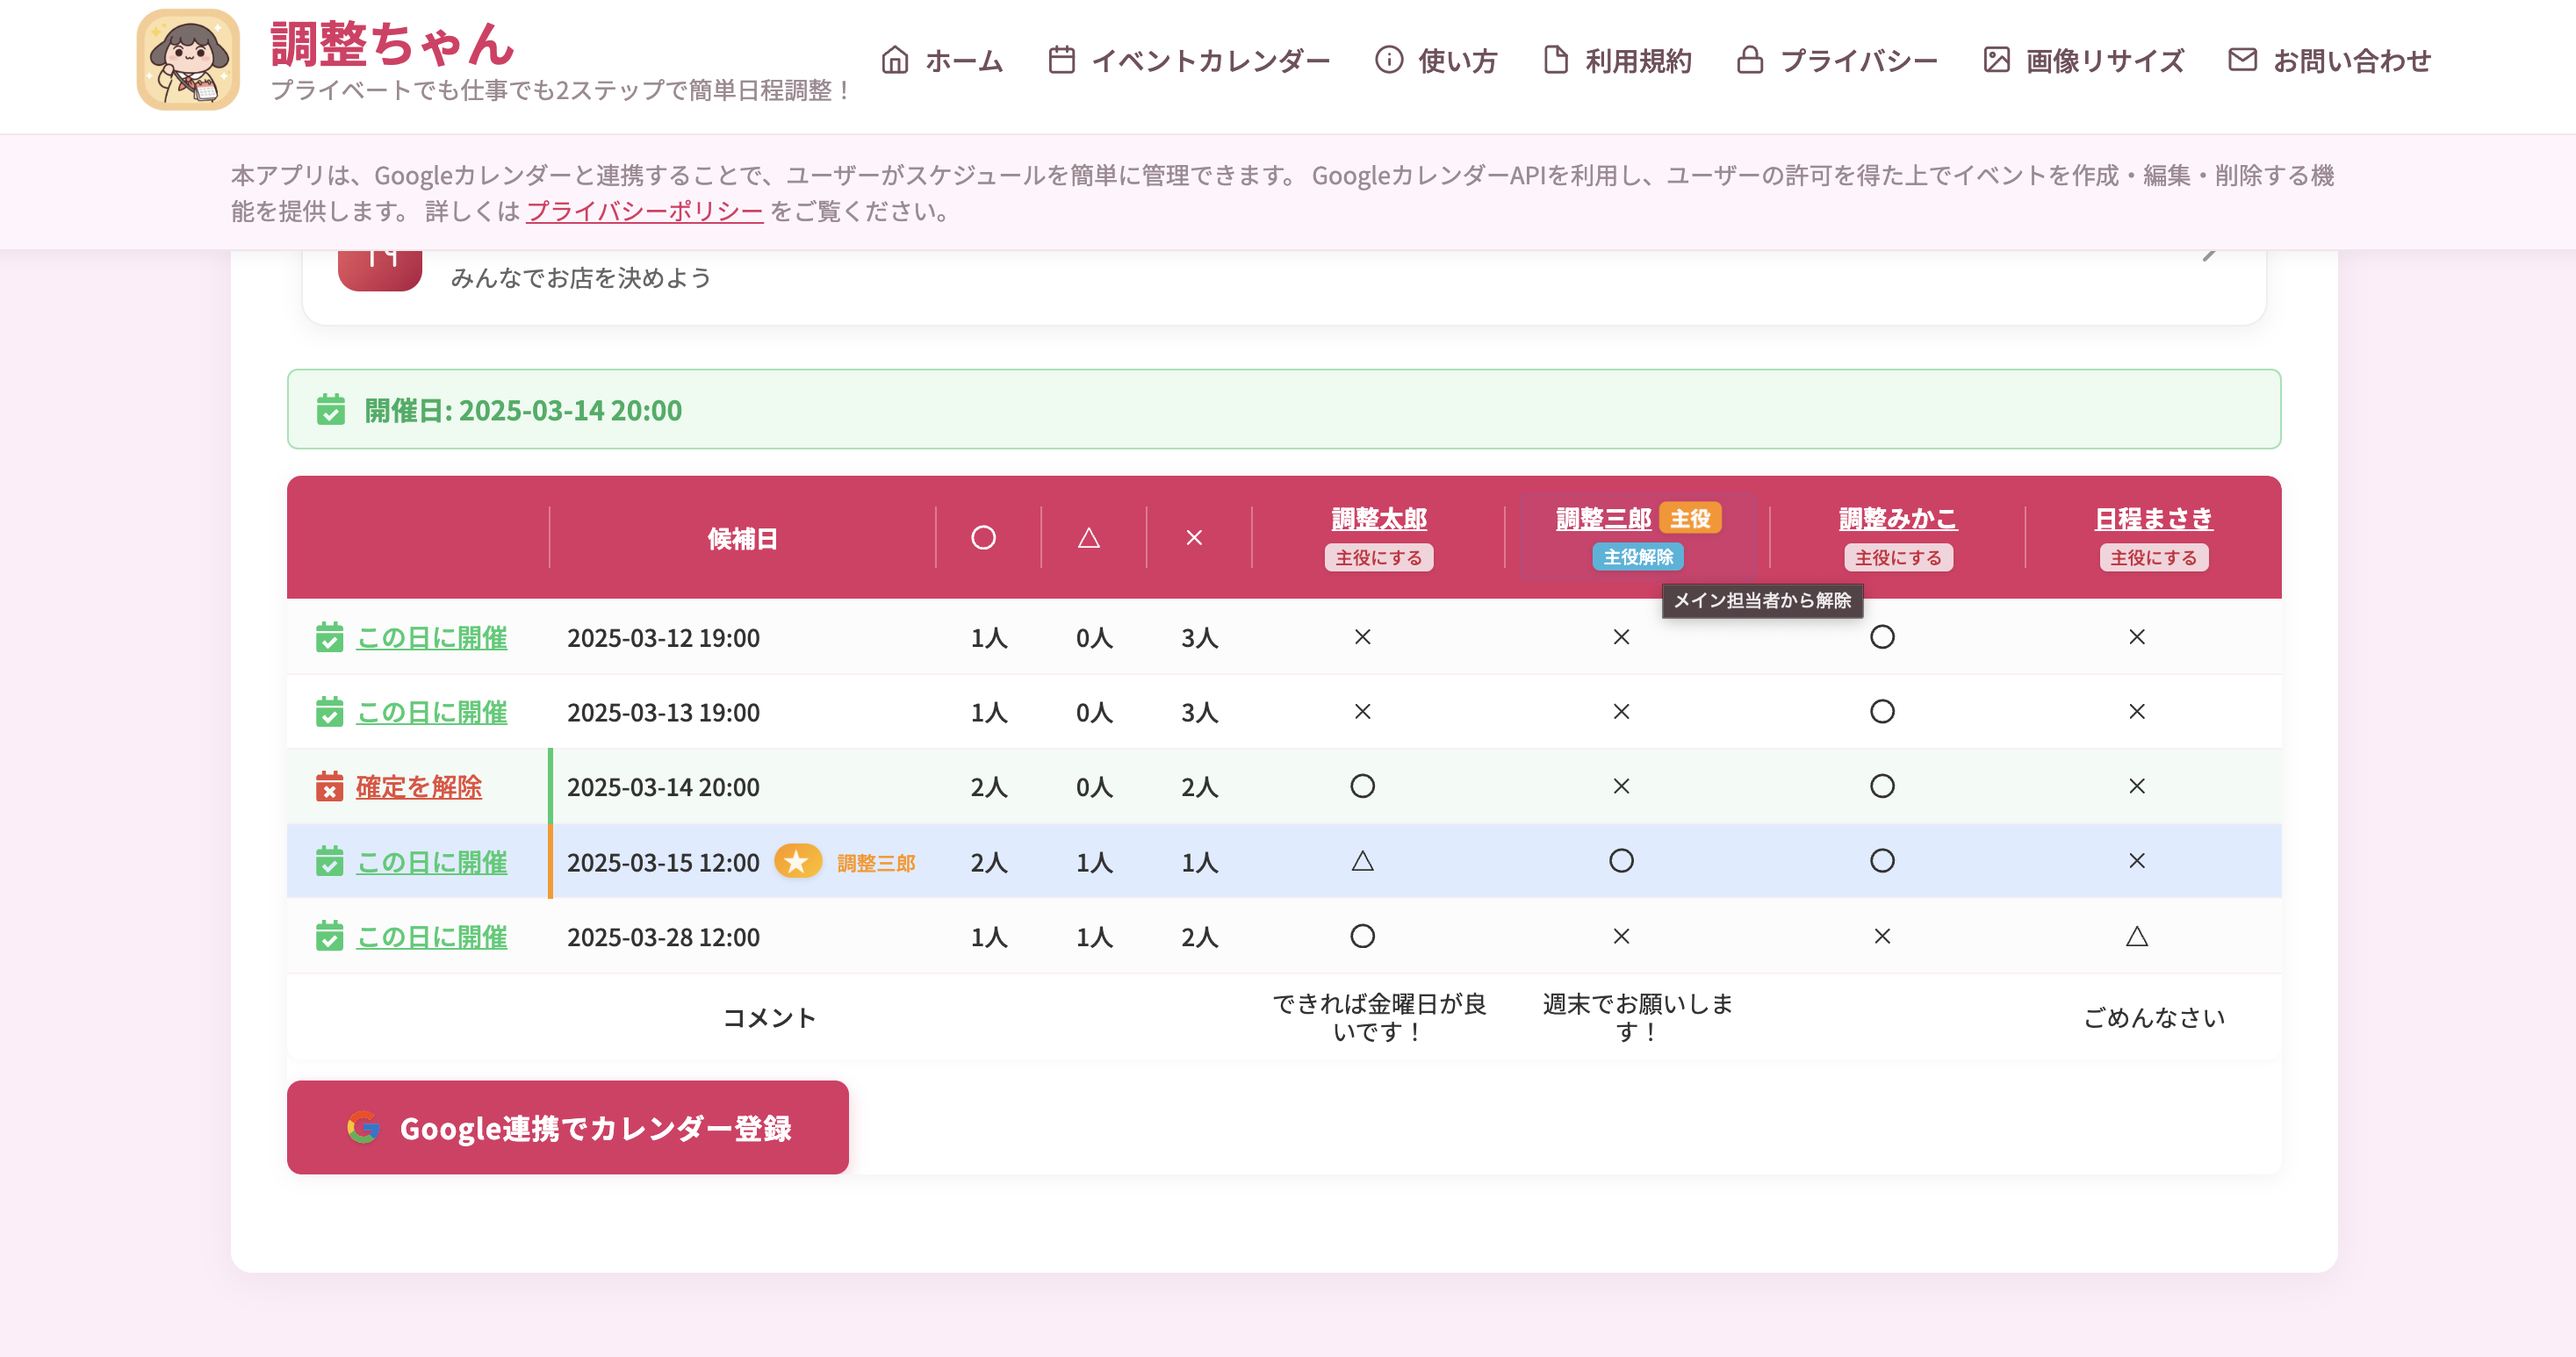
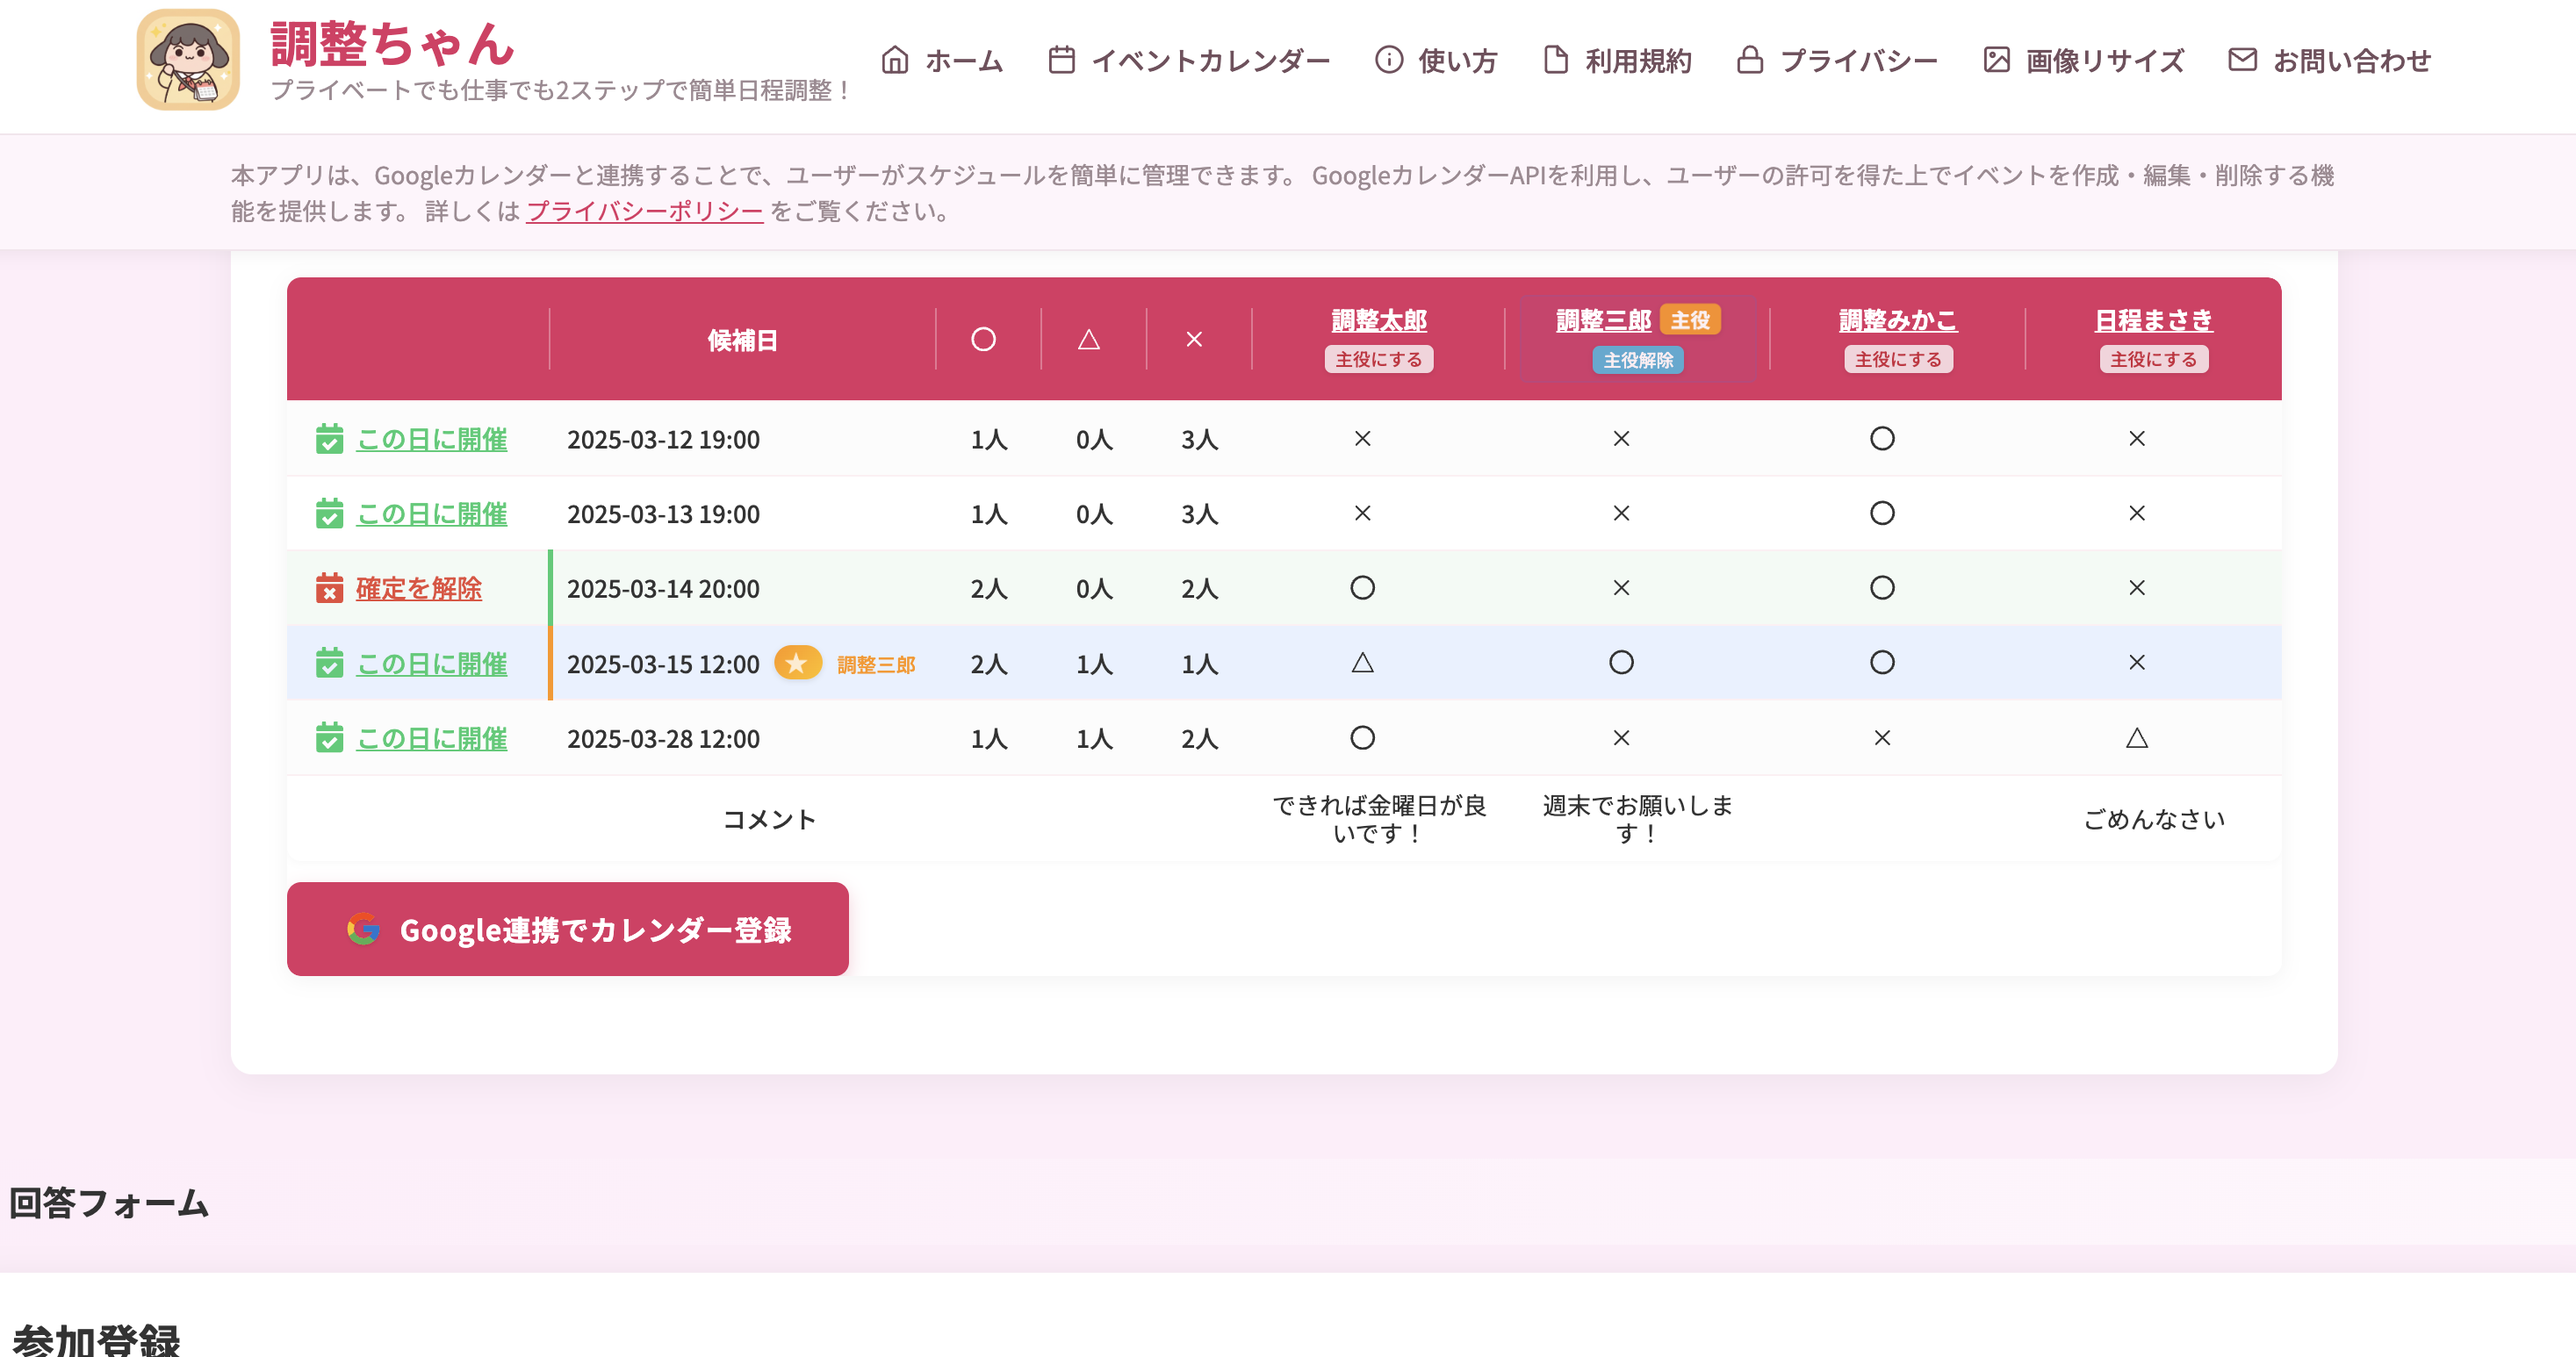
feat: 使い方画像の修正

diff --git a/app/event/presenter.tsx b/app/event/presenter.tsx
@@ -1700,13 +1700,13 @@ export default function EventDetails({ eventId, session }: { eventId: string, se
           }
         } catch (error) {
           console.error('APIエンドポイントエラー:', error);
-          setModalText("メイン担当者の更新に失敗しました");
+          setModalText("主役の更新に失敗しました");
           setIsOpen(true);
         }
       }
     } catch (error) {
       console.error('エラー:', error);
-      setModalText("メイン担当者の更新に失敗しました");
+      setModalText("主役の更新に失敗しました");
       setIsOpen(true);
     }
   };
@@ -2224,8 +2224,8 @@ export default function EventDetails({ eventId, session }: { eventId: string, se
                             <button
                               onClick={() => setUserAsMain(userWithMain.id, isMain)}
                               className={`${styles.makeMainButton} ${isMain ? styles.mainButtonActive : ''}`}
-                              title={isMain ? "メイン担当者から解除" : "メイン担当者に設定"}
-                              aria-label={isMain ? "メイン担当者から解除" : "メイン担当者に設定"}
+                              title={isMain ? "主役から解除" : "主役に設定"}
+                              aria-label={isMain ? "主役から解除" : "主役に設定"}
                             >
                               {isMain ? "主役解除" : "主役にする"}
                             </button>

diff --git a/app/event/index.module.scss b/app/event/index.module.scss
@@ -435,6 +435,7 @@
   @media (max-width: 768px) {
     max-width: 150px;
   }
+
 }
 
 .scheduleForm {
@@ -2832,6 +2833,7 @@
   justify-content: center;
   margin-bottom: 3px;
   white-space: nowrap;
+
 }
 
 /* ユーザー名テキスト */
@@ -2839,6 +2841,11 @@
   font-size: 0.85rem;
   cursor: pointer;
   text-decoration: underline;
+  transition: .2s;
+  &:hover{
+    color: #f5a45d;
+    transform: translateY(-.8px)
+  }
   
 }
 
